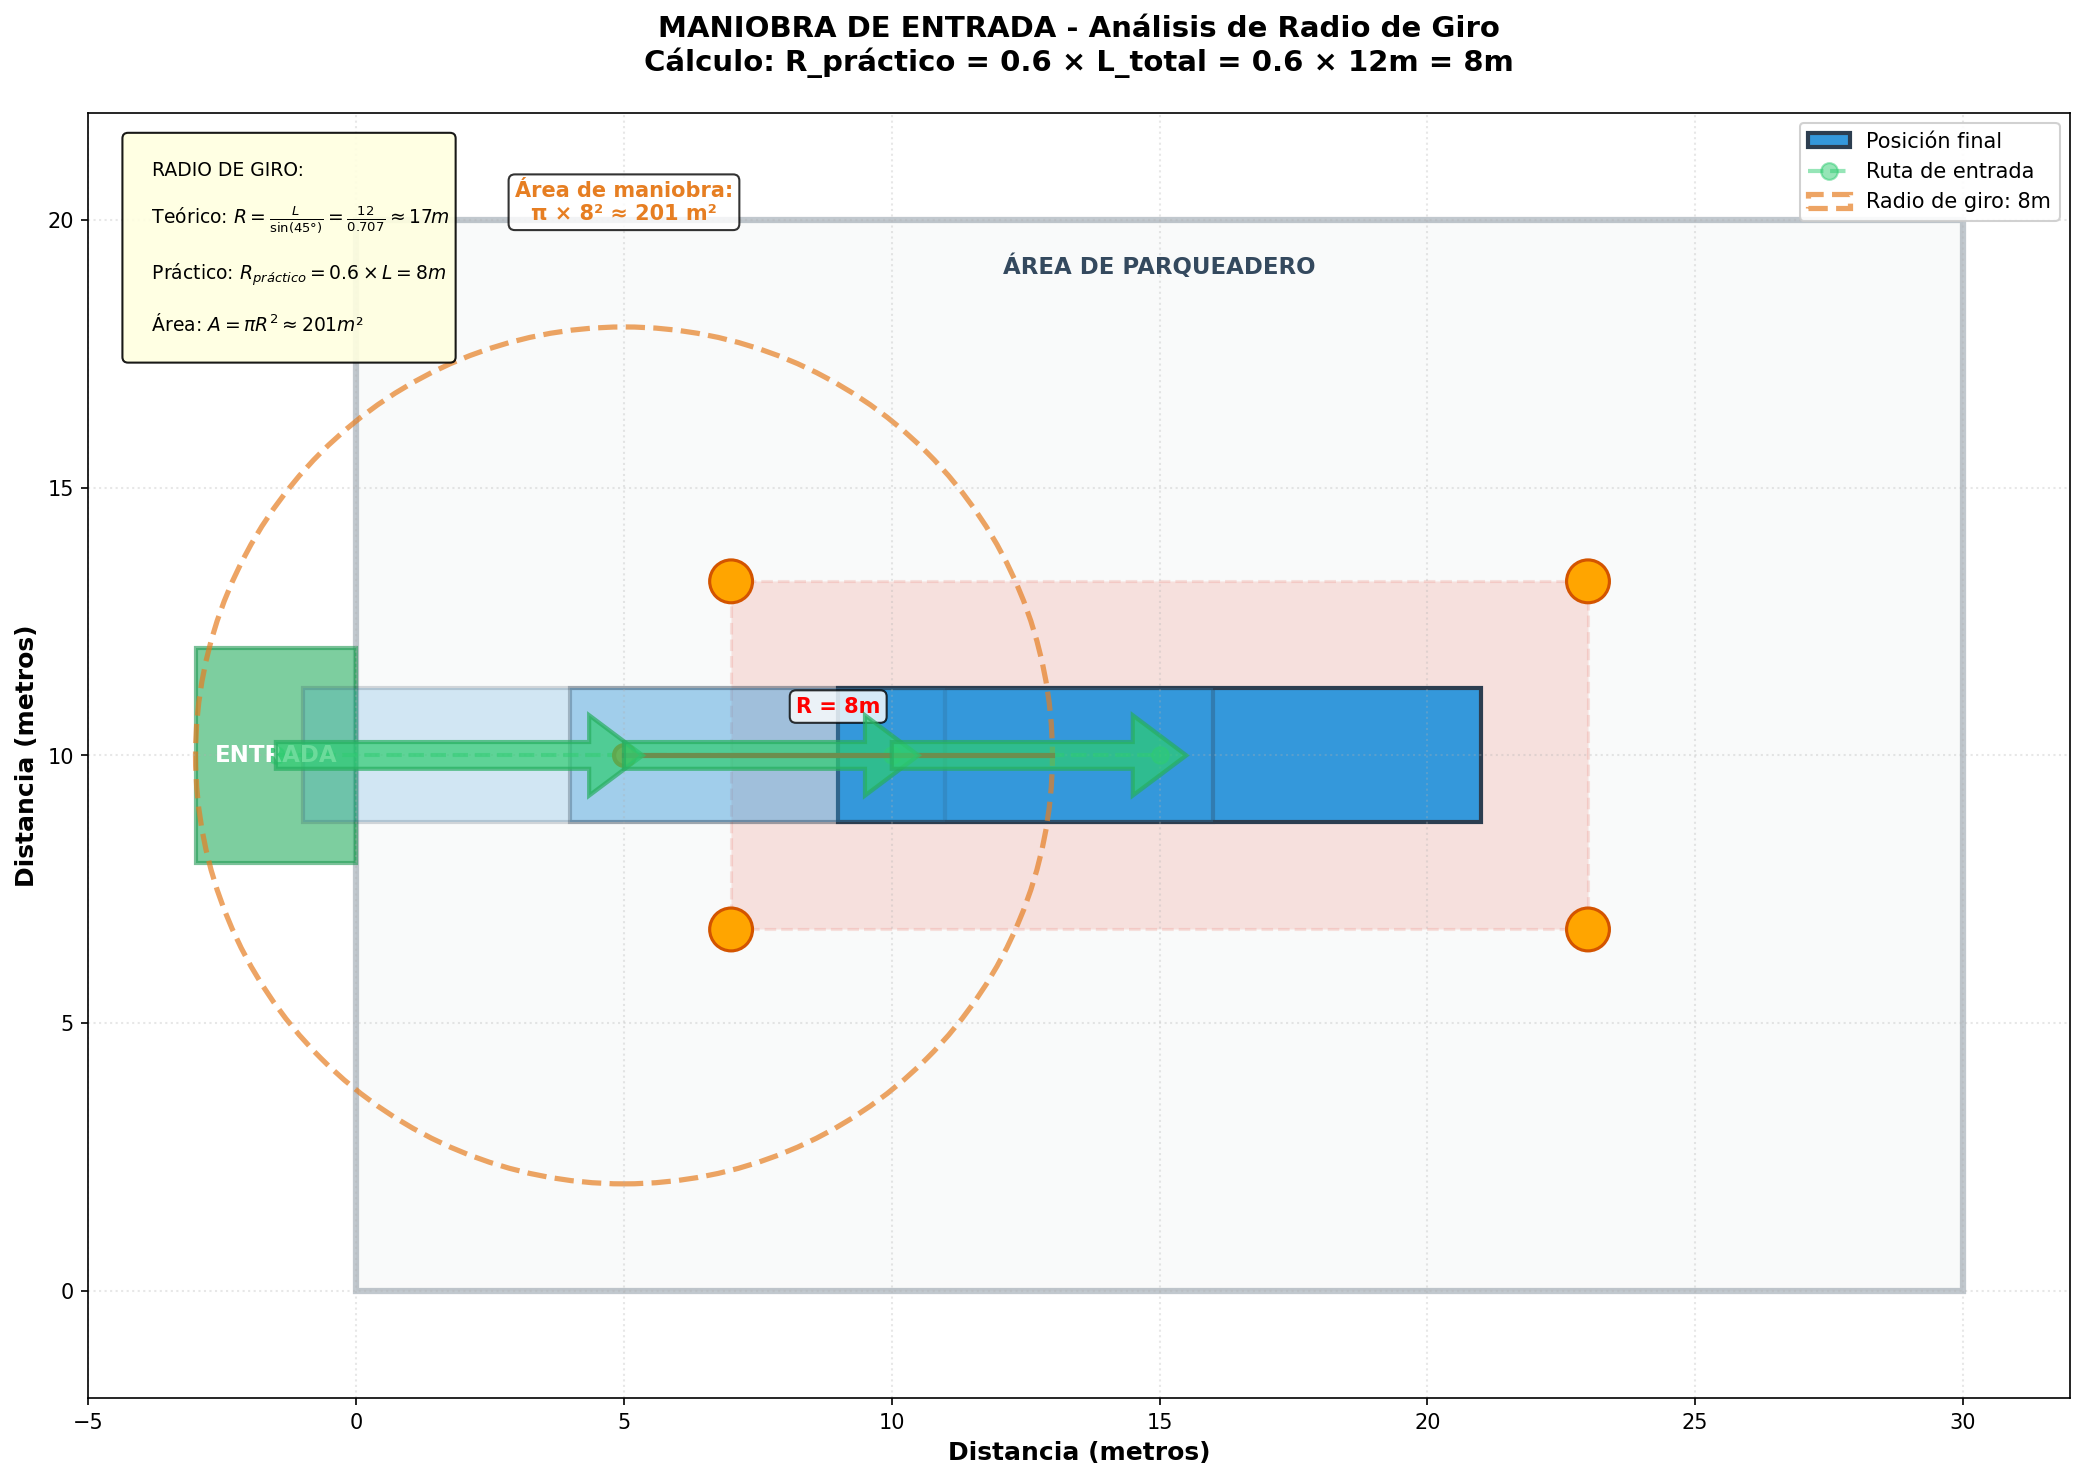
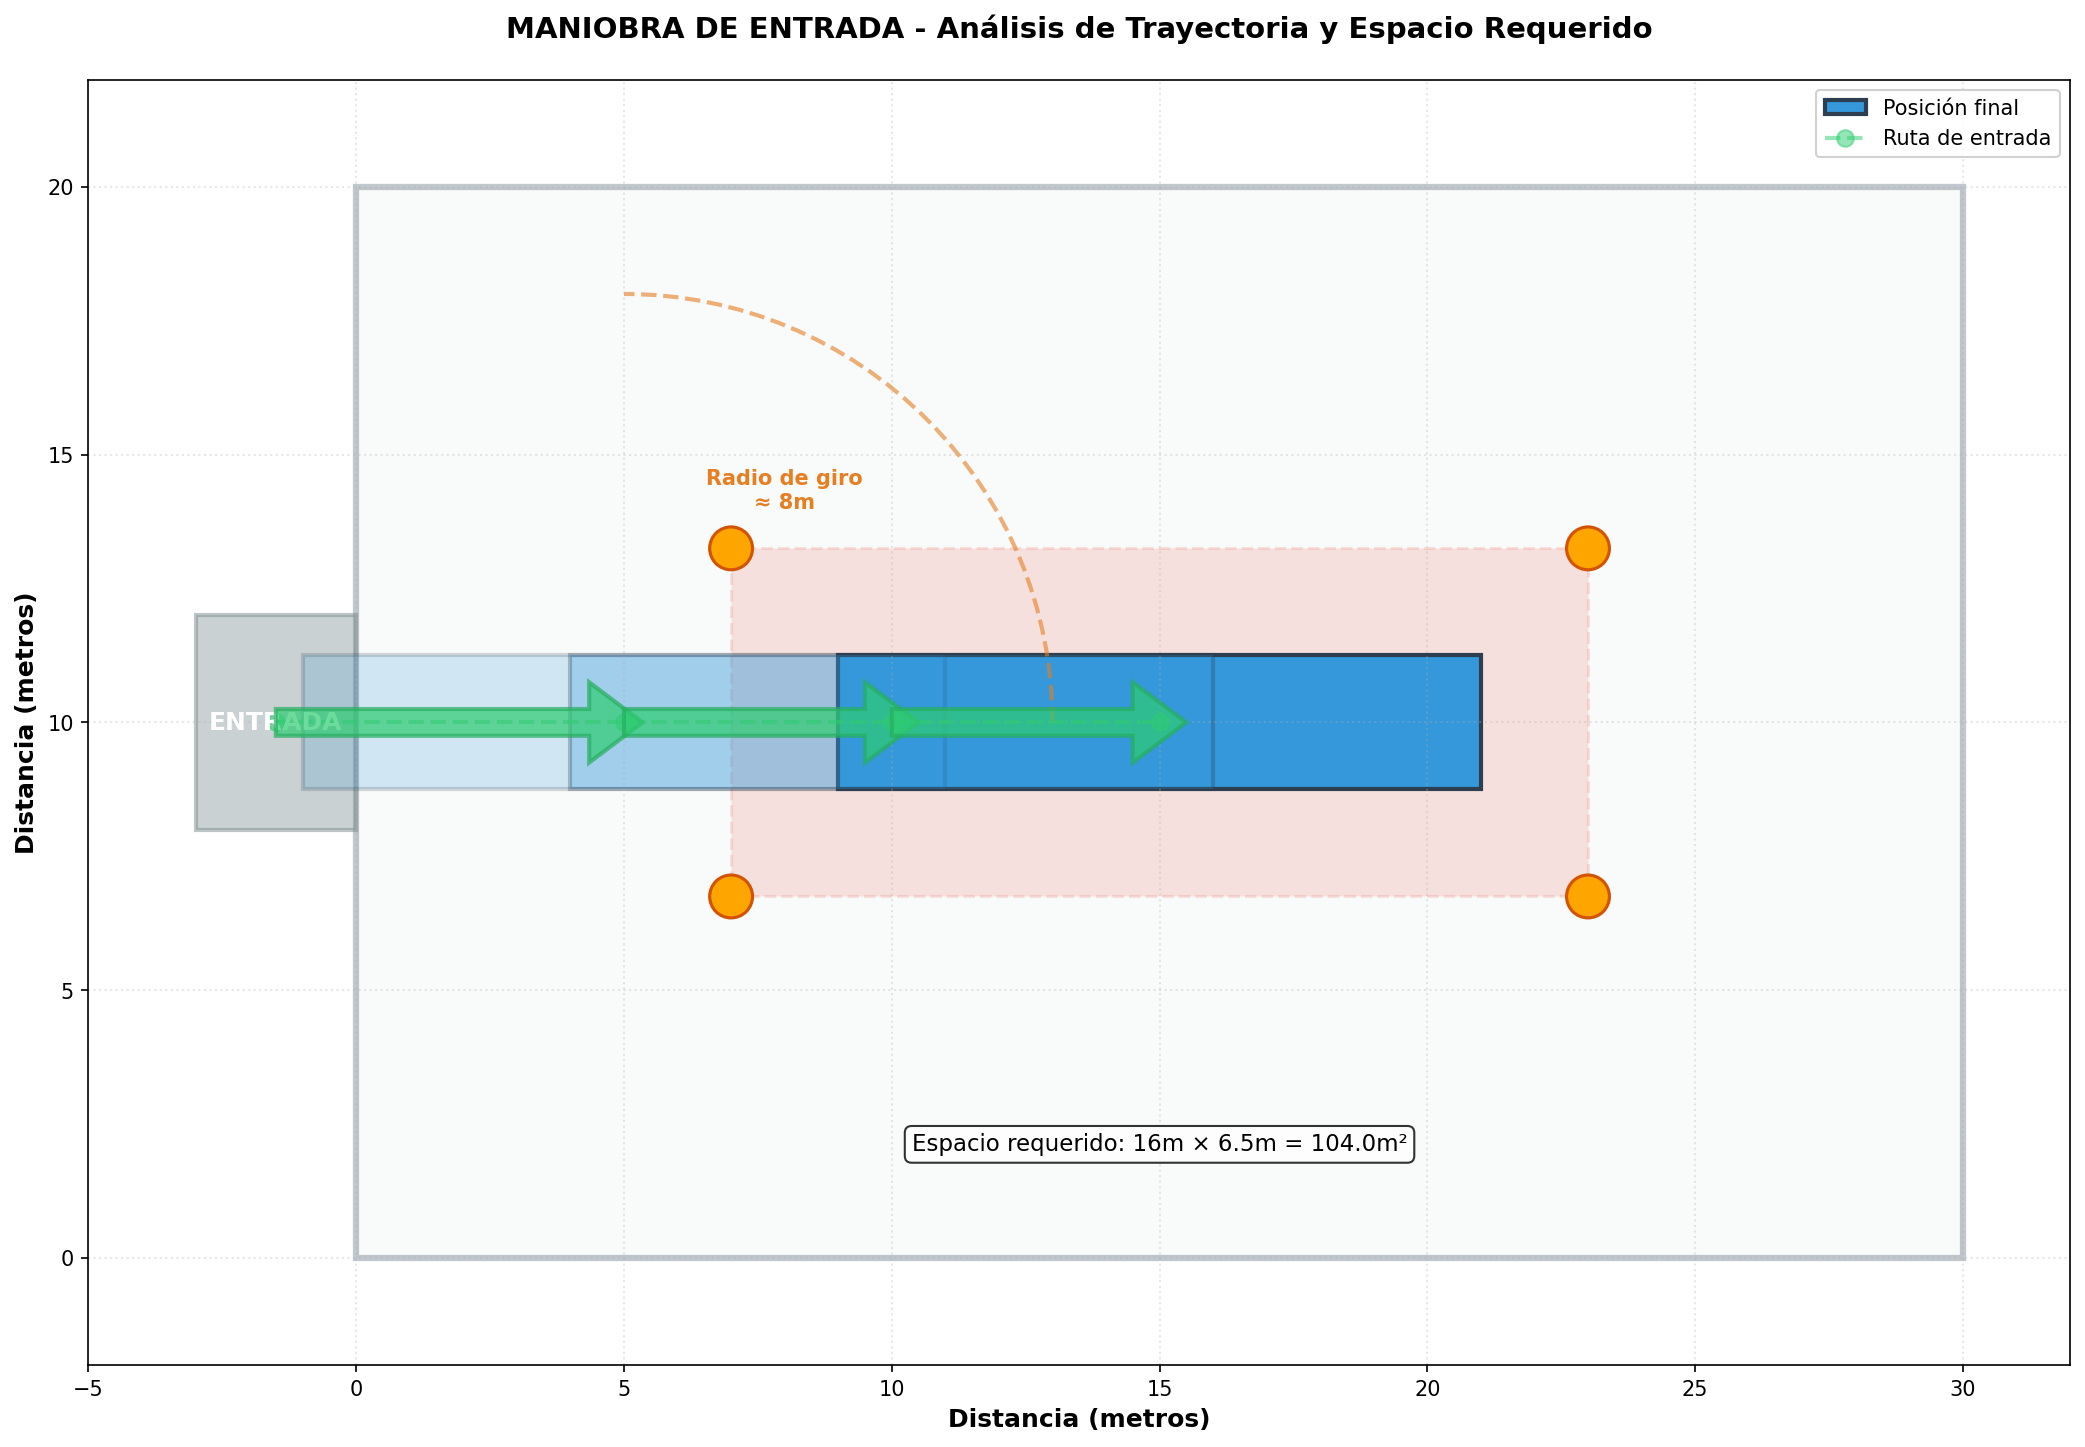
Regenerar imágenes con cálculos correctos y actualizar referencias APA 7
- Regeneradas figuras 4b, 5 y 6 con ampliación de 198.8m² para 5 camiones
- Figura 4b: Eliminada columna "Factible con 50m²", destacados 5 camiones
- Figura 5: Actualizada comparación mostrando solución optimizada con batches
- Figura 6: Configuraciones basadas en ampliación de ~200m² (no 50m²)
- Figura 7: Visualización de solución con 5 camiones distribuidos

- Referencias actualizadas a formato APA 7:
  * Fundamentos matemáticos (Khan Academy, Stewart, Swokowski)
  * Normativa HSE (MinTrabajo Colombia, OSHA)
  * Ingeniería de transporte (Garber & Hoel, ITE)
  * Herramientas (Matplotlib, NumPy, Python)
  * Mención de Claude AI para desarrollo de scripts

- Nota explícita: Gráficos generados con scripts Python + Claude AI
- Referencias incluyen DOIs y enlaces cuando están disponibles

diff --git a/proyect_final.md b/proyect_final.md
@@ -600,9 +600,38 @@ Solo si el modelo operativo cambia (más camiones en parqueadero simultáneament
 
 ## Referencias
 
-- Geometría Analítica y Cálculo de Áreas
-- Ecuaciones Lineales Aplicadas a Problemas Reales
-- Normativa HSE para Parqueaderos Industriales
-- Cálculo de Radio de Giro para Vehículos Pesados
-- Transformaciones Geométricas en el Plano Cartesiano
-- Optimización de Espacios mediante Métodos Matemáticos
+**Fundamentos Matemáticos:**
+
+Khan Academy. (2024). *Ecuaciones lineales*. https://es.khanacademy.org/math/algebra/x2f8bb11595b61c86:linear-equations-graphs
+
+Stewart, J., Redlin, L., & Watson, S. (2015). *Precálculo: Matemáticas para el cálculo* (7ª ed.). Cengage Learning.
+
+Swokowski, E. W., & Cole, J. A. (2011). *Álgebra y trigonometría con geometría analítica* (13ª ed.). Cengage Learning.
+
+**Normativa y Seguridad:**
+
+Ministerio de Trabajo de Colombia. (2015). *Decreto 1072 de 2015 - Sistema de Gestión de Seguridad y Salud en el Trabajo (SG-SST)*. https://www.mintrabajo.gov.co/documents/20147/0/DUR+Sector+Trabajo+Actualizado+a+15+de+abril++de+2016.pdf
+
+OSHA - Occupational Safety and Health Administration. (2023). *Materials Handling and Storage*. U.S. Department of Labor. https://www.osha.gov/materials-handling
+
+**Ingeniería de Transporte:**
+
+Garber, N. J., & Hoel, L. A. (2014). *Ingeniería de tránsito y carreteras* (4ª ed.). Cengage Learning.
+
+Institute of Transportation Engineers. (2018). *Parking Generation Manual* (5th ed.). ITE. https://www.ite.org/pub/?id=1D5924C3-E78E-7BA4-515A-0060C6D6F1FE
+
+Kraay, J. H., Mathijssen, M., & Wegman, F. (2013). *Manual de diseño de estacionamientos*. SWOV Institute for Road Safety Research.
+
+**Visualizaciones y Herramientas:**
+
+Hunter, J. D. (2007). Matplotlib: A 2D graphics environment. *Computing in Science & Engineering*, 9(3), 90-95. https://doi.org/10.1109/MCSE.2007.55
+
+McKinney, W. (2010). Data structures for statistical computing in Python. *Proceedings of the 9th Python in Science Conference*, 56-61. https://doi.org/10.25080/Majora-92bf1922-00a
+
+Van Rossum, G., & Drake, F. L. (2009). *Python 3 Reference Manual*. CreateSpace.
+
+**Nota sobre las visualizaciones:** Todas las gráficas, diagramas y visualizaciones presentadas en este documento fueron generadas mediante scripts en Python desarrollados con asistencia de Claude AI (Anthropic, 2024). Los scripts utilizan las bibliotecas Matplotlib y NumPy para crear representaciones precisas basadas en las ecuaciones matemáticas y cálculos del proyecto. El código fuente está disponible en los archivos `generar_todas_imagenes_parte2.py` y `generar_maniobras.py` del repositorio del proyecto.
+
+**Inteligencia Artificial:**
+
+Anthropic. (2024). *Claude AI* [Large Language Model]. https://www.anthropic.com/claude
